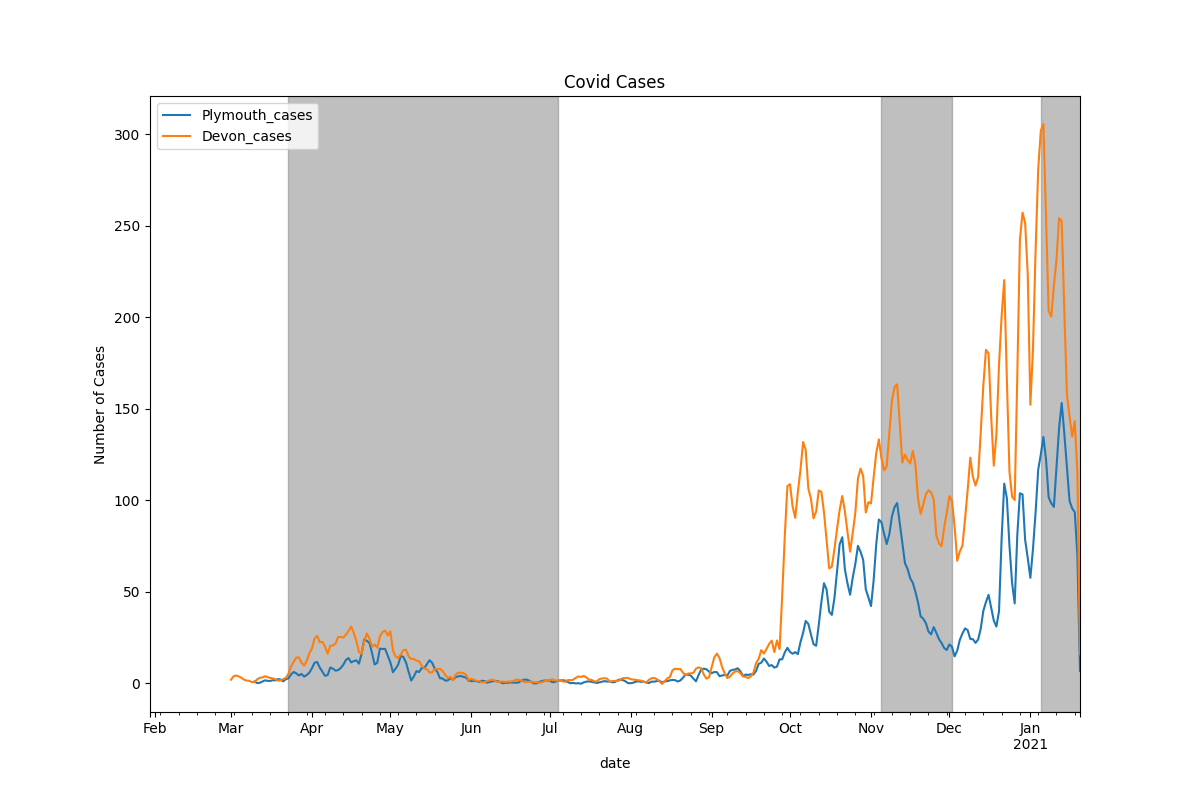
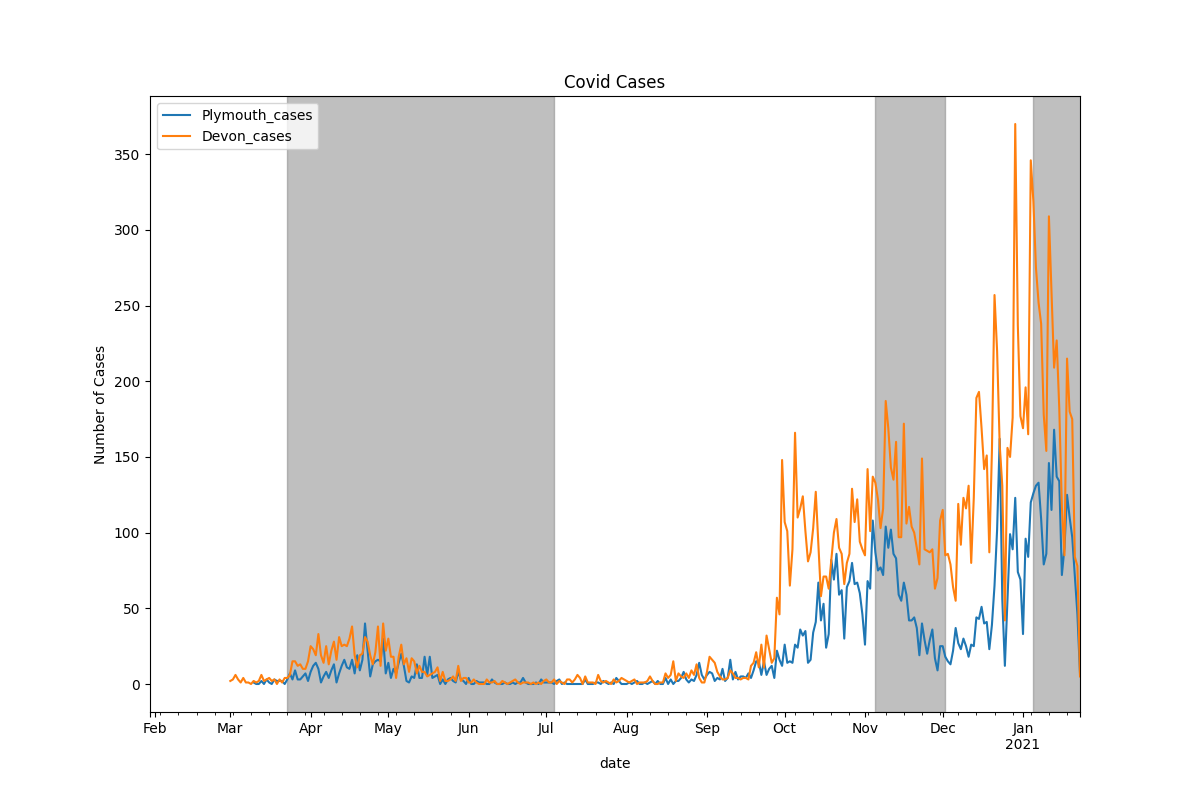
update-data

diff --git a/main.py b/main.py
@@ -41,7 +41,8 @@ def fetch_parse_data(region):
 	df_data = {}
 	df_data['date'] = [datetime.datetime.fromisoformat(d['date']) for d in post_data]
 	cases = [d['newCasesBySpecimenDate'] for d in post_data]
-	df_data[region+'_cases'] = average_smoothing(cases, window_size=7)
+	df_data[region+'_cases'] = cases
+	# df_data[region+'_cases'] = average_smoothing(cases, window_size=7)
 	df = pd.DataFrame(data=df_data)
 	if verbose:
 		print(df)
